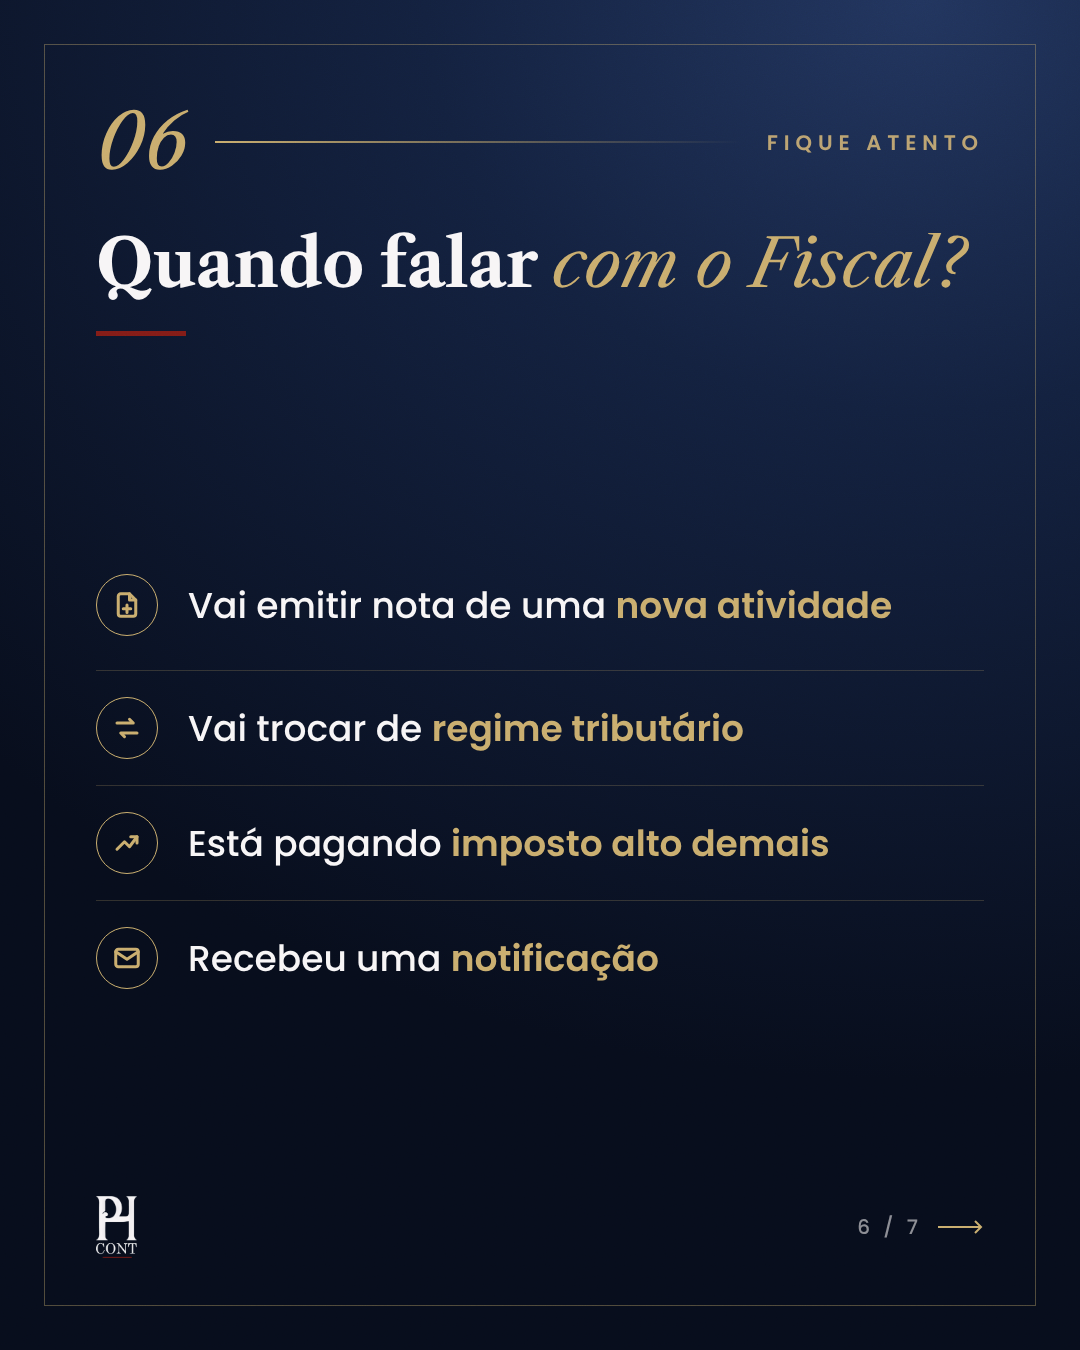
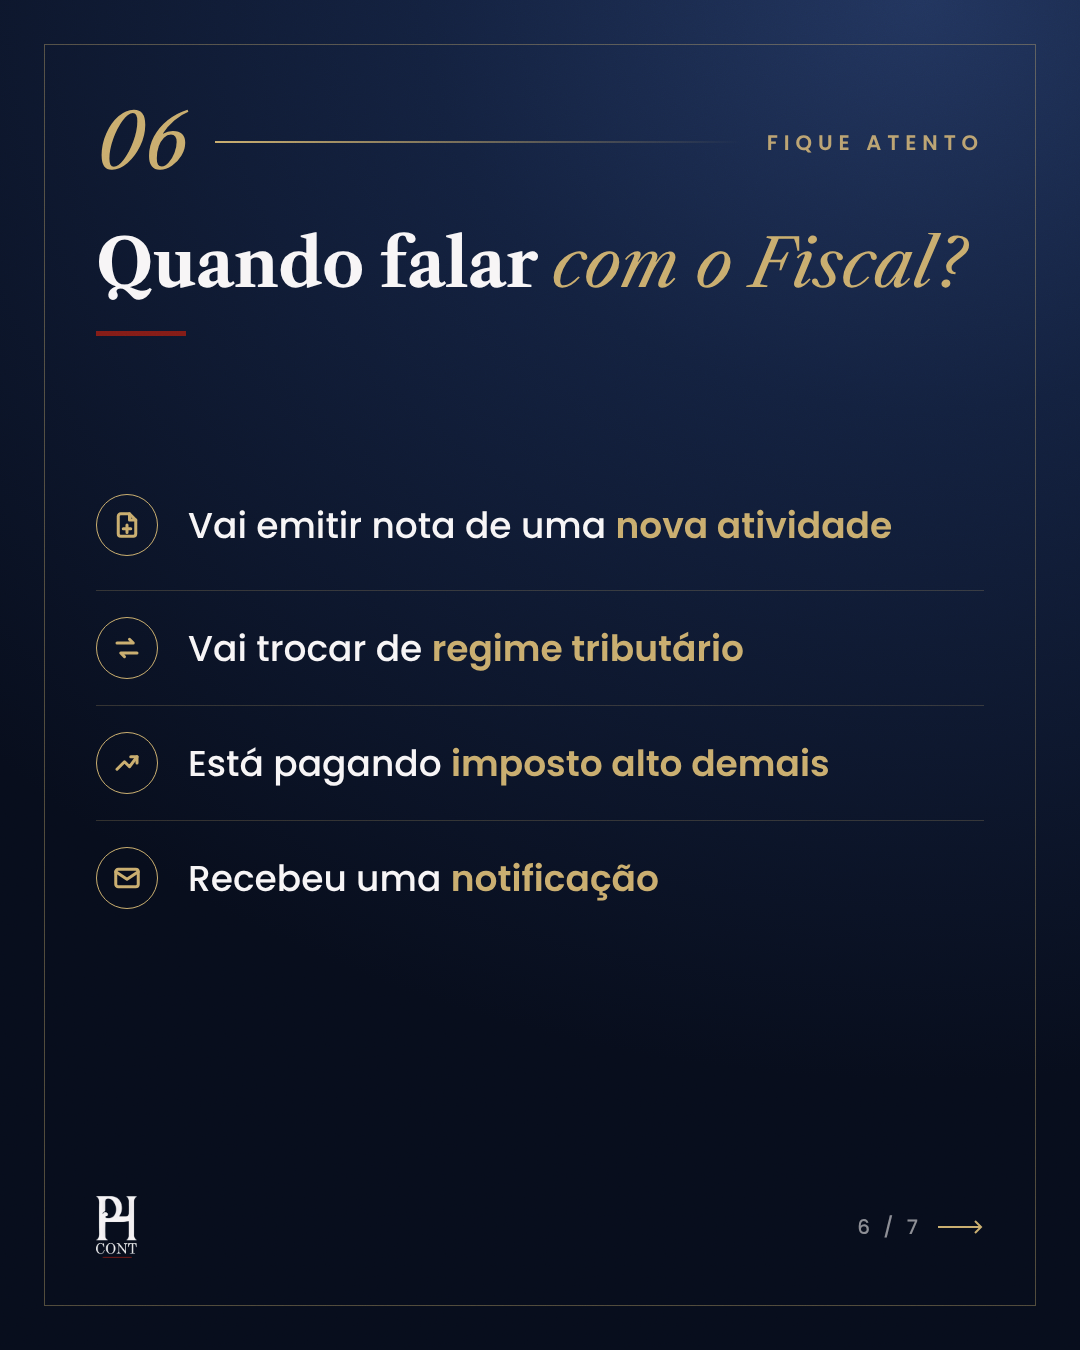
PHcont carrossel Setor Fiscal: versão final (último slide com o mesmo sombreado da capa) + visão geral
Claude-Session: https://claude.ai/code/session_012bVqEb5M2bw1tnz2qQiCDo

diff --git a/phcont/carrossel/setor_fiscal/carrossel.html b/phcont/carrossel/setor_fiscal/carrossel.html
@@ -97,7 +97,7 @@ html,body{width:1080px;height:1350px;overflow:hidden;background:#0b1529}
 <section class="s claro" id="s4"><div class="moldura"></div>
   <div class="topo"><div class="num">04</div><div class="fio"></div><div class="rot">ATENÇÃO</div></div>
   <div class="tit">O que <em>não é</em> do Fiscal<div class="traco"></div></div>
-  <div class="lista" style="top:560px">
+  <div class="lista" style="top:480px">
     <style>
       .claro .item{border-bottom-color:rgba(31,43,66,.14)}
       .nao{width:62px;height:62px;flex:none;border-radius:50%;background:var(--bordo);display:grid;place-items:center}
@@ -142,7 +142,7 @@ html,body{width:1080px;height:1350px;overflow:hidden;background:#0b1529}
 <section class="s escuro" id="s6"><div class="moldura"></div>
   <div class="topo"><div class="num">06</div><div class="fio"></div><div class="rot">FIQUE ATENTO</div></div>
   <div class="tit">Quando falar <em>com o Fiscal?</em><div class="traco"></div></div>
-  <div class="lista" style="top:540px">
+  <div class="lista" style="top:460px">
     <div class="item" style="padding:34px 0"><div class="ic"><svg viewBox="0 0 24 24"><path d="M14 3H7a2 2 0 0 0-2 2v14a2 2 0 0 0 2 2h10a2 2 0 0 0 2-2V8z"/><path d="M14 3v5h5M12 12v6M9 15h6"/></svg></div><div class="txt">Vai emitir nota de uma <b style="color:var(--ouro);font-weight:600">nova atividade</b></div></div>
     <div class="item"><div class="ic"><svg viewBox="0 0 24 24"><path d="M4 8h13l-3-3M20 16H7l3 3"/></svg></div><div class="txt">Vai trocar de <b style="color:var(--ouro);font-weight:600">regime tributário</b></div></div>
     <div class="item"><div class="ic"><svg viewBox="0 0 24 24"><path d="M4 17l6-6 4 4 6-8"/><path d="M15 7h5v5"/></svg></div><div class="txt">Está pagando <b style="color:var(--ouro);font-weight:600">imposto alto demais</b></div></div>
@@ -154,8 +154,10 @@ html,body{width:1080px;height:1350px;overflow:hidden;background:#0b1529}
 <!-- 7: ENCERRAMENTO -->
 <section class="s" id="s7">
   <div style="position:absolute;inset:0;background:url(foto2.png) center 10%/cover"></div>
-  <div style="position:absolute;inset:0;background:linear-gradient(180deg,rgba(9,16,32,0) 0%,rgba(9,16,32,0) 48%,rgba(11,19,38,.8) 63%,rgba(9,16,32,.96) 76%,#080e1d 100%)"></div>
-  <div style="position:absolute;left:84px;right:84px;top:930px">
+  <div style="position:absolute;inset:0;background:radial-gradient(ellipse 75% 70% at 50% 42%,rgba(8,14,29,0) 55%,rgba(8,14,29,.55) 100%)"></div>
+  <div style="position:absolute;inset:0;background:linear-gradient(90deg,rgba(8,14,29,.62) 0%,rgba(8,14,29,0) 22%,rgba(8,14,29,0) 78%,rgba(8,14,29,.62) 100%),linear-gradient(180deg,rgba(8,14,29,.45) 0%,rgba(8,14,29,0) 16%)"></div>
+  <div style="position:absolute;inset:0;background:linear-gradient(180deg,rgba(9,16,32,0) 0%,rgba(9,16,32,0) 56%,rgba(11,19,38,.6) 68%,rgba(9,16,32,.86) 84%,rgba(8,14,29,.92) 100%)"></div>
+  <div style="position:absolute;left:84px;right:84px;top:900px">
     <div style="font-family:'Libre Caslon Text',serif;font-weight:700;font-size:70px;line-height:1.08;letter-spacing:-.01em">Imposto não é só boleto. <em style="font-style:italic;font-weight:400;color:var(--ouro)">É estratégia.</em></div>
     <div class="traco"></div>
     <div style="margin-top:30px;font-weight:600;font-size:26px;letter-spacing:.24em;color:var(--ouro2)">PHCONT · MUITO MAIS QUE NÚMEROS</div>
